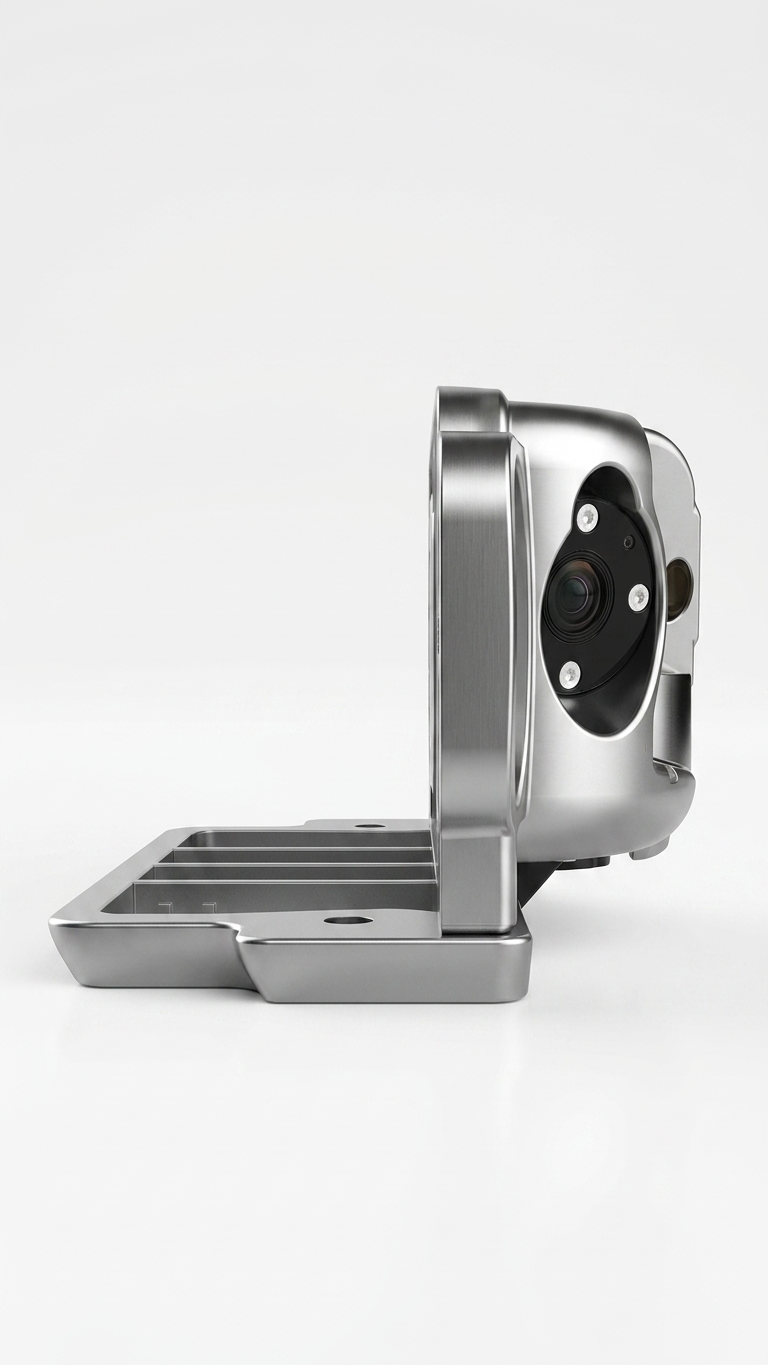
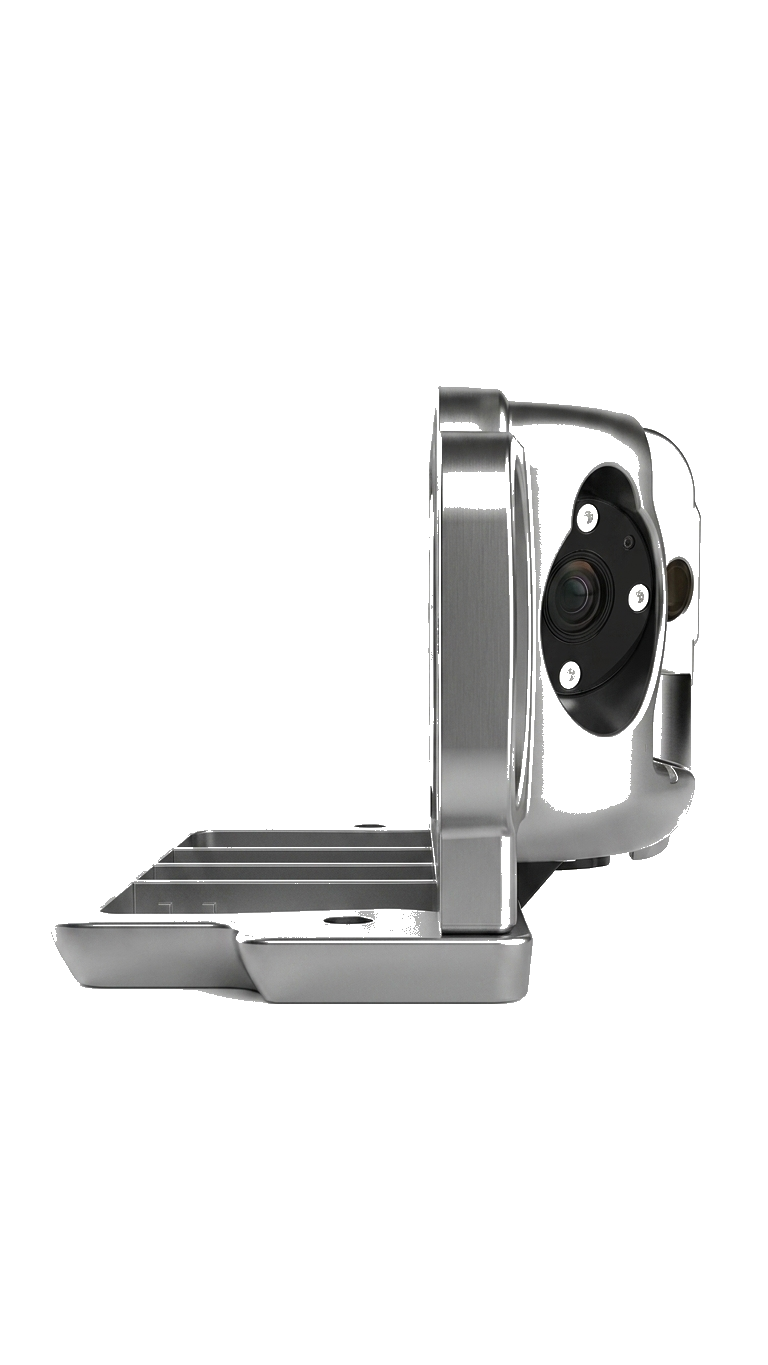
WEP03: carousel immagini bianche e allargate a 90vh

diff --git a/products/in-ground-version.html b/products/in-ground-version.html
@@ -19,10 +19,10 @@
     .nav-back{display:inline-flex;align-items:center;gap:6px;color:var(--cyan);text-decoration:none;font-size:.88rem;font-weight:600;border:1px solid rgba(0,212,232,.3);border-radius:20px;padding:6px 16px;transition:all .2s;white-space:nowrap;}
     .nav-back:hover{background:rgba(0,212,232,.1);}
     /* CAROUSEL */
-    .carousel-wrap{position:relative;width:100%;background:#0a0e14;overflow:hidden;min-height:60vh;}
+    .carousel-wrap{position:relative;width:100%;background:#ffffff;overflow:hidden;min-height:90vh;}
     .carousel-track{display:flex;transition:transform .45s cubic-bezier(.4,0,.2,1);}
-    .carousel-slide{min-width:100%;position:relative;height:70vh;overflow:hidden;display:flex;align-items:center;justify-content:center;background:#ffffff;}
-    .carousel-slide .slide-fg{max-height:90%;max-width:90%;width:auto;height:auto;object-fit:contain;display:block;}
+    .carousel-slide{min-width:100%;position:relative;height:90vh;overflow:hidden;display:flex;align-items:center;justify-content:center;background:#ffffff;}
+    .carousel-slide .slide-fg{width:100%;height:100%;object-fit:cover;object-position:center center;display:block;}
     .carousel-btn{position:absolute;top:50%;transform:translateY(-50%);z-index:10;width:48px;height:48px;border-radius:50%;background:rgba(6,14,26,.8);border:1px solid rgba(0,212,232,.4);color:var(--cyan);font-size:1.4rem;cursor:pointer;display:flex;align-items:center;justify-content:center;transition:background .2s,transform .15s;backdrop-filter:blur(8px);}
     .carousel-btn:hover{background:rgba(0,212,232,.2);transform:translateY(-50%) scale(1.08);}
     .carousel-btn.prev{left:18px;}
@@ -135,17 +135,17 @@
 <!-- CAROUSEL -->
 <div class="carousel-wrap" id="carousel">
   <div class="carousel-track" id="carouselTrack">
-    <div class="carousel-slide" style="background:#ffffff;">
-      <img class="slide-fg" src="pomelli_photoshoot_image_9_16_0418.png" alt="WEP03 view 1"/>
+    <div class="carousel-slide" style="background:#ffffff;height:90vh;display:flex;align-items:center;justify-content:center;">
+      <img class="slide-fg" src="pomelli_photoshoot_image_9_16_0418.png" alt="WEP03 view 1" style="width:auto;height:90vh;max-width:100%;object-fit:contain;display:block;"/>
     </div>
-    <div class="carousel-slide" style="background:#ffffff;">
-      <img class="slide-fg" src="pomelli_photoshoot_image_9_16_0418-2.png" alt="WEP03 view 2"/>
+    <div class="carousel-slide" style="background:#ffffff;height:90vh;display:flex;align-items:center;justify-content:center;">
+      <img class="slide-fg" src="pomelli_photoshoot_image_9_16_0418-2.png" alt="WEP03 view 2" style="width:auto;height:90vh;max-width:100%;object-fit:contain;display:block;"/>
     </div>
-    <div class="carousel-slide" style="background:#ffffff;">
-      <img class="slide-fg" src="pomelli_photoshoot_image_9_16_0418-3.png" alt="WEP03 view 3"/>
+    <div class="carousel-slide" style="background:#ffffff;height:90vh;display:flex;align-items:center;justify-content:center;">
+      <img class="slide-fg" src="pomelli_photoshoot_image_9_16_0418-3.png" alt="WEP03 view 3" style="width:auto;height:90vh;max-width:100%;object-fit:contain;display:block;"/>
     </div>
-    <div class="carousel-slide" style="background:#ffffff;">
-      <img class="slide-fg" src="pomelli_photoshoot_image_9_16_0418 copia.png" alt="WEP03 view 4"/>
+    <div class="carousel-slide" style="background:#ffffff;height:90vh;display:flex;align-items:center;justify-content:center;">
+      <img class="slide-fg" src="pomelli_photoshoot_image_9_16_0418 copia.png" alt="WEP03 view 4" style="width:auto;height:90vh;max-width:100%;object-fit:contain;display:block;"/>
     </div>
   </div>
   <button class="carousel-btn prev" id="prevBtn">&#8249;</button>
